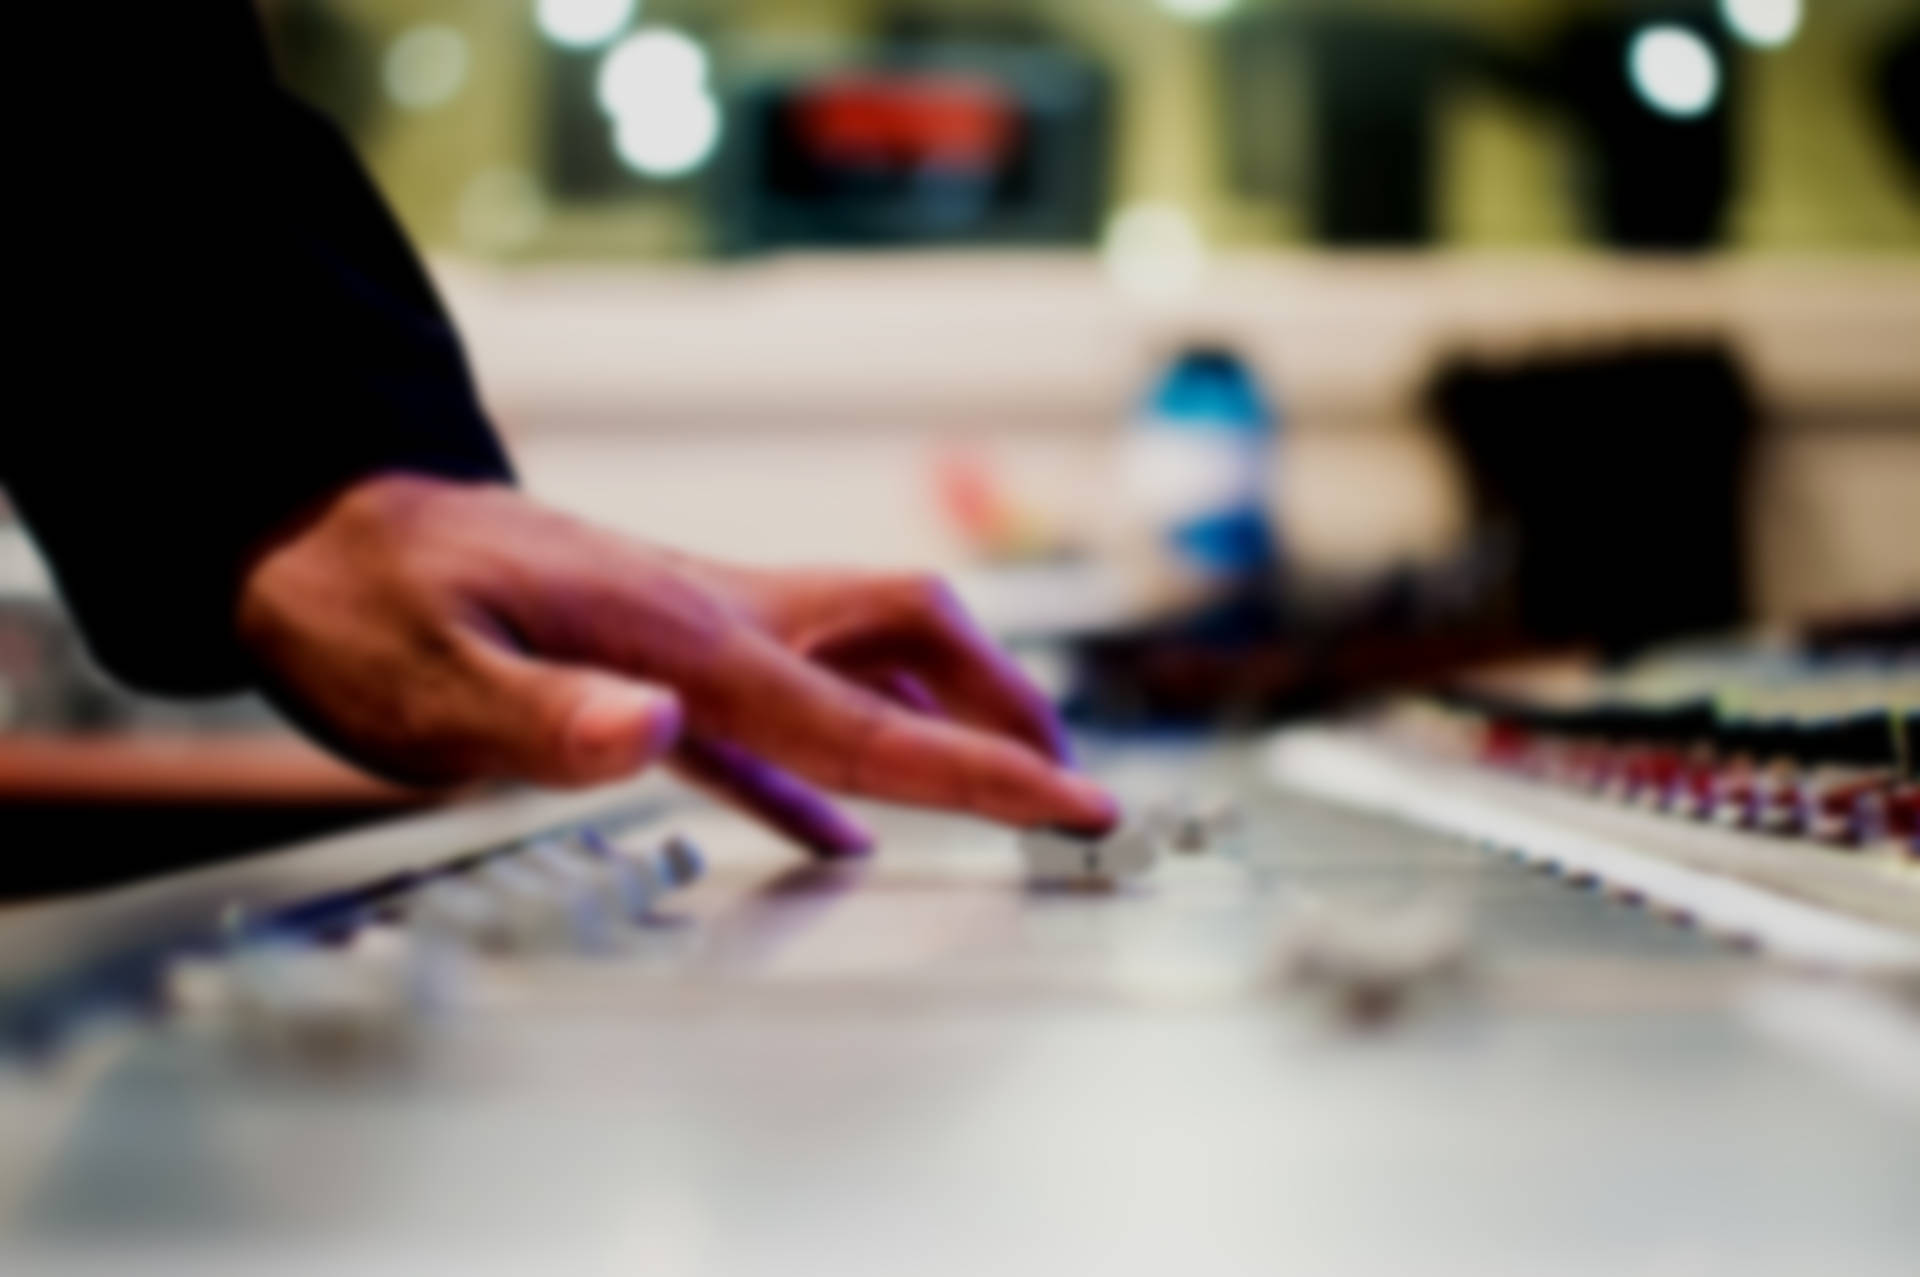
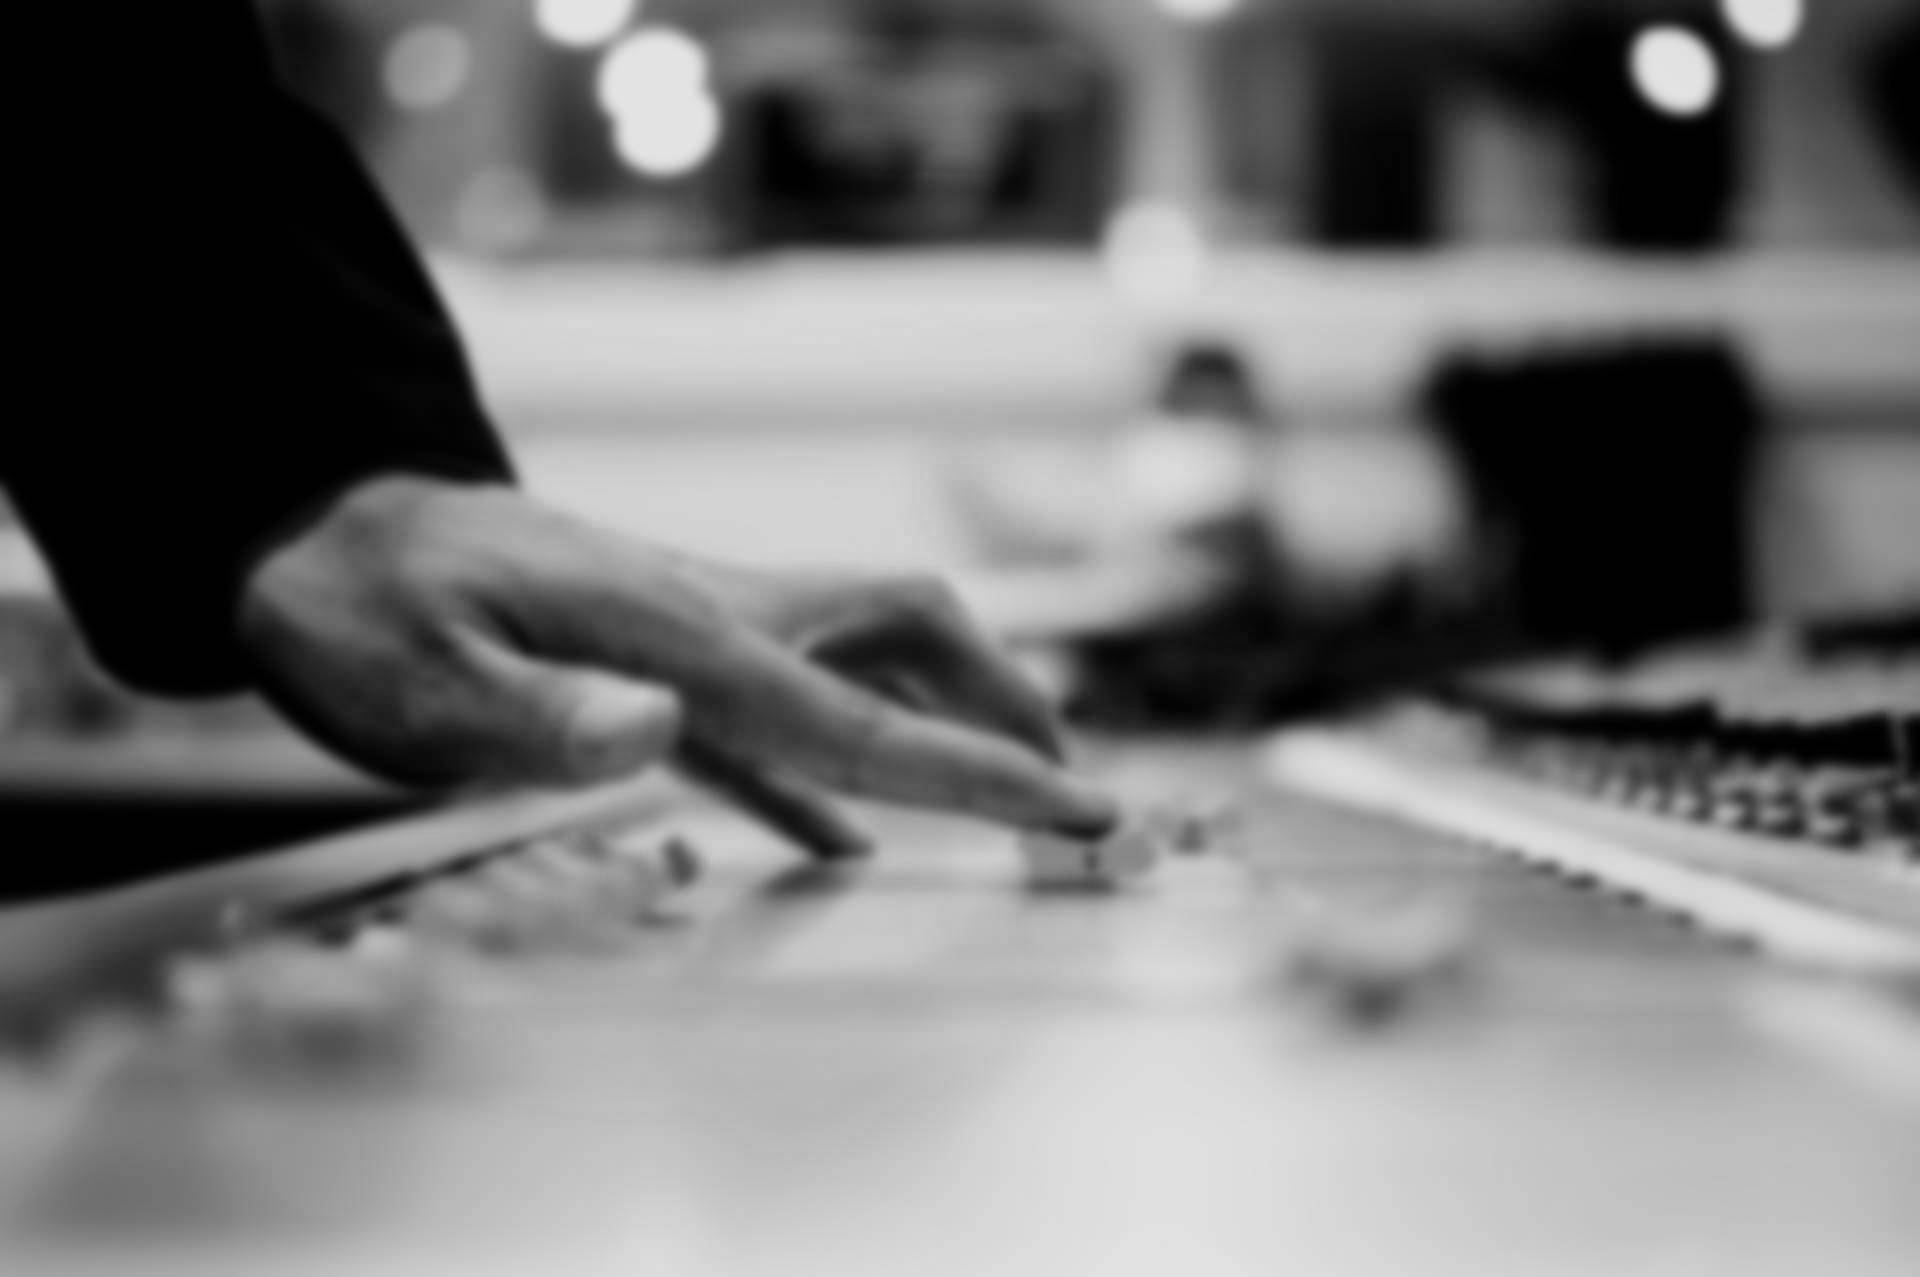
Changed welcome images to grayscale

diff --git a/resources/views/welcome.blade.php b/resources/views/welcome.blade.php
@@ -34,7 +34,7 @@
                 <p class="lead">Just paste a link to the music. No complicated formatting.</p>
             </div>
             <div class="col-lg-5 col-lg-offset-2 col-sm-6">
-                <img class="img-responsive" src="http://lorempixel.com/600/400/technics/1">
+                <img class="img-responsive" src="http://lorempixel.com/g/600/400/technics/1">
             </div>
         </div>
     </div>
@@ -50,7 +50,7 @@
                 <p class="lead">Mobile, tablet and desktop!</p>
             </div>
             <div class="col-lg-5 col-sm-pull-6  col-sm-6">
-                <img class="img-responsive" src="http://lorempixel.com/600/400/technics/2">
+                <img class="img-responsive" src="http://lorempixel.com/g/600/400/technics/2">
             </div>
         </div>
     </div>
@@ -67,7 +67,7 @@
                 <p>Talking about openness, our full source code is <a target="_blank" href="https://github.com/natzim/OpenPlaylists">available on GitHub</a>.</p>
             </div>
             <div class="col-lg-5 col-lg-offset-2 col-sm-6">
-                <img class="img-responsive" src="http://lorempixel.com/600/400/technics/3">
+                <img class="img-responsive" src="http://lorempixel.com/g/600/400/technics/3">
             </div>
         </div>
     </div>
